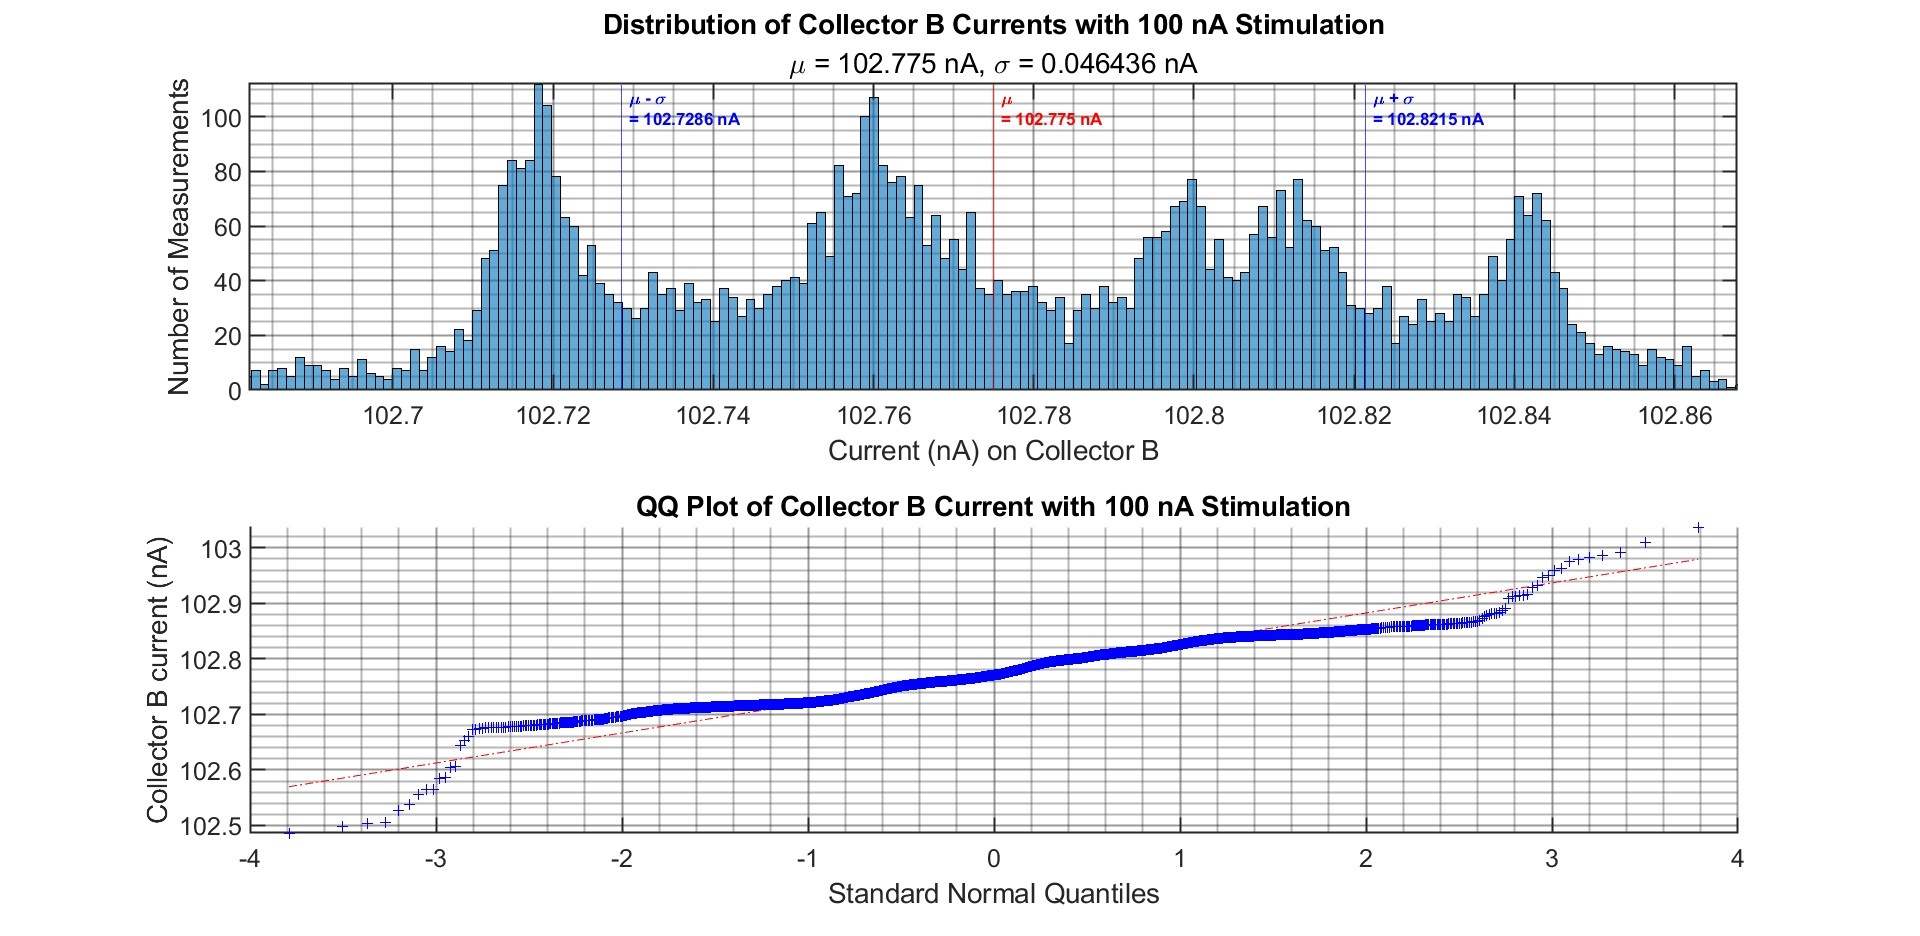
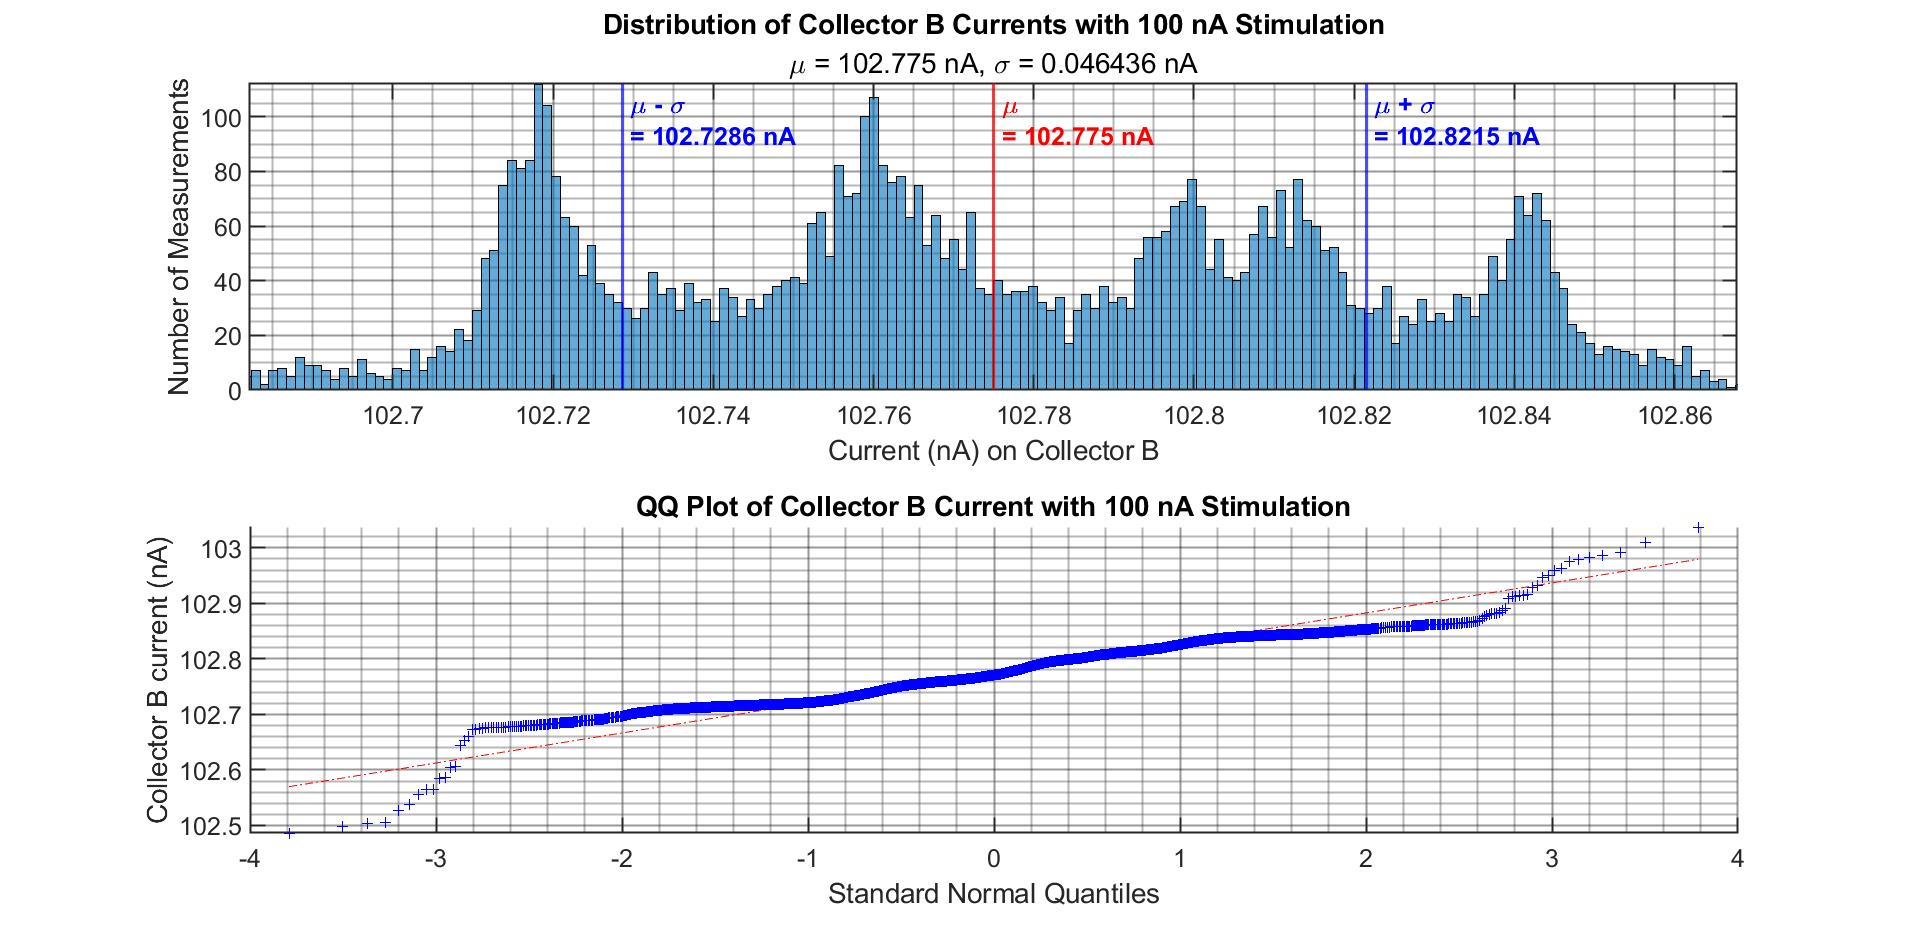
made std dev and mean lines bigger and thicker for readability

Changed region(s): [[0.6875, 0.0929, 0.8125, 0.1549], [0.3125, 0.0929, 0.4375, 0.1549], [0.5, 0.0929, 0.625, 0.1549]]

diff --git a/grids_noise_C1A_upsweep_100nA.m b/grids_noise_C1A_upsweep_100nA.m
@@ -29,17 +29,20 @@ figure(1);
 subplot(2,1,1);
 histogram(currentC1_nA, numbins);
 hold on;
-meanLine = xline(meanC1Current, "-r", {"\mu", "= " + num2str(meanC1Current) + " nA"});
+meanLine = xline(meanC1Current, "-r", {"\mu", "= " + num2str(meanC1Current) + " nA"}, FontSize=15);
 meanLine.LabelOrientation = "horizontal";
 meanLine.FontWeight = 'bold';
+meanLine.LineWidth = 2;
 hold on;
-plusOneStdDev = xline(meanC1Current + stdC1Current, "-b", {"\mu + \sigma", "= " + num2str(meanC1Current + stdC1Current) + " nA"});
+plusOneStdDev = xline(meanC1Current + stdC1Current, "-b", {"\mu + \sigma", "= " + num2str(meanC1Current + stdC1Current) + " nA"}, FontSize=15);
 plusOneStdDev.LabelOrientation = "horizontal";
 plusOneStdDev.FontWeight = 'bold';
+plusOneStdDev.LineWidth = 2;
 hold on;
-minusOneStdDev = xline(meanC1Current - stdC1Current, "-b", {"\mu - \sigma", "= " + num2str(meanC1Current - stdC1Current) + " nA"});
+minusOneStdDev = xline(meanC1Current - stdC1Current, "-b", {"\mu - \sigma", "= " + num2str(meanC1Current - stdC1Current) + " nA"}, FontSize=15);
 minusOneStdDev.LabelOrientation = "horizontal";
 minusOneStdDev.FontWeight = 'bold';
+minusOneStdDev.LineWidth = 2;
 ax = gca;
 ax.FontSize = 15;
 grid on;

diff --git a/grids_noise_C1A_upsweep_20nA.m b/grids_noise_C1A_upsweep_20nA.m
@@ -29,17 +29,20 @@ figure(1);
 subplot(2,1,1);
 histogram(currentC1_nA, numbins);
 hold on;
-meanLine = xline(meanC1Current, "-r", {"\mu", "= " + num2str(meanC1Current) + " nA"});
+meanLine = xline(meanC1Current, "-r", {"\mu", "= " + num2str(meanC1Current) + " nA"}, FontSize=15);
 meanLine.LabelOrientation = "horizontal";
 meanLine.FontWeight = 'bold';
+meanLine.LineWidth = 2;
 hold on;
-plusOneStdDev = xline(meanC1Current + stdC1Current, "-b", {"\mu + \sigma", "= " + num2str(meanC1Current + stdC1Current) + " nA"});
+plusOneStdDev = xline(meanC1Current + stdC1Current, "-b", {"\mu + \sigma", "= " + num2str(meanC1Current + stdC1Current) + " nA"}, FontSize=15);
 plusOneStdDev.LabelOrientation = "horizontal";
 plusOneStdDev.FontWeight = 'bold';
+plusOneStdDev.LineWidth = 2;
 hold on;
-minusOneStdDev = xline(meanC1Current - stdC1Current, "-b", {"\mu - \sigma", "= " + num2str(meanC1Current - stdC1Current) + " nA"});
+minusOneStdDev = xline(meanC1Current - stdC1Current, "-b", {"\mu - \sigma", "= " + num2str(meanC1Current - stdC1Current) + " nA"}, FontSize=15);
 minusOneStdDev.LabelOrientation = "horizontal";
 minusOneStdDev.FontWeight = 'bold';
+minusOneStdDev.LineWidth = 2;
 ax = gca;
 ax.FontSize = 15;
 grid on;

diff --git a/grids_noise_C2B_upsweep_100nA.m b/grids_noise_C2B_upsweep_100nA.m
@@ -29,17 +29,20 @@ figure(1);
 subplot(2,1,1);
 histogram(currentC2_nA, numbins);
 hold on;
-meanLine = xline(meanC2Current, "-r", {"\mu", "= " + num2str(meanC2Current) + " nA"});
+meanLine = xline(meanC2Current, "-r", {"\mu", "= " + num2str(meanC2Current) + " nA"}, FontSize=15);
 meanLine.LabelOrientation = "horizontal";
 meanLine.FontWeight = 'bold';
+meanLine.LineWidth = 2;
 hold on;
-plusOneStdDev = xline(meanC2Current + stdC2Current, "-b", {"\mu + \sigma", "= " + num2str(meanC2Current + stdC2Current) + " nA"});
+plusOneStdDev = xline(meanC2Current + stdC2Current, "-b", {"\mu + \sigma", "= " + num2str(meanC2Current + stdC2Current) + " nA"}, FontSize=15);
 plusOneStdDev.LabelOrientation = "horizontal";
 plusOneStdDev.FontWeight = 'bold';
+plusOneStdDev.LineWidth = 2;
 hold on;
-minusOneStdDev = xline(meanC2Current - stdC2Current, "-b", {"\mu - \sigma", "= " + num2str(meanC2Current - stdC2Current) + " nA"});
+minusOneStdDev = xline(meanC2Current - stdC2Current, "-b", {"\mu - \sigma", "= " + num2str(meanC2Current - stdC2Current) + " nA"}, FontSize=15);
 minusOneStdDev.LabelOrientation = "horizontal";
 minusOneStdDev.FontWeight = 'bold';
+minusOneStdDev.LineWidth = 2;
 ax = gca;
 ax.FontSize = 15;
 grid on;

diff --git a/grids_noise_C2B_upsweep_20nA.m b/grids_noise_C2B_upsweep_20nA.m
@@ -29,17 +29,20 @@ figure(1);
 subplot(2,1,1);
 histogram(currentC2_nA, numbins);
 hold on;
-meanLine = xline(meanC2Current, "-r", {"\mu", "= " + num2str(meanC2Current) + " nA"});
+meanLine = xline(meanC2Current, "-r", {"\mu", "= " + num2str(meanC2Current) + " nA"}, FontSize=15);
 meanLine.LabelOrientation = "horizontal";
 meanLine.FontWeight = 'bold';
+meanLine.LineWidth = 2;
 hold on;
-plusOneStdDev = xline(meanC2Current + stdC2Current, "-b", {"\mu + \sigma", "= " + num2str(meanC2Current + stdC2Current) + " nA"});
+plusOneStdDev = xline(meanC2Current + stdC2Current, "-b", {"\mu + \sigma", "= " + num2str(meanC2Current + stdC2Current) + " nA"}, FontSize=15);
 plusOneStdDev.LabelOrientation = "horizontal";
 plusOneStdDev.FontWeight = 'bold';
+plusOneStdDev.LineWidth = 2;
 hold on;
-minusOneStdDev = xline(meanC2Current - stdC2Current, "-b", {"\mu - \sigma", "= " + num2str(meanC2Current - stdC2Current) + " nA"});
+minusOneStdDev = xline(meanC2Current - stdC2Current, "-b", {"\mu - \sigma", "= " + num2str(meanC2Current - stdC2Current) + " nA"}, FontSize=15);
 minusOneStdDev.LabelOrientation = "horizontal";
 minusOneStdDev.FontWeight = 'bold';
+minusOneStdDev.LineWidth = 2;
 ax = gca;
 ax.FontSize = 15;
 grid on;

diff --git a/grids_noise_C3C_upsweep_100nA.m b/grids_noise_C3C_upsweep_100nA.m
@@ -29,17 +29,20 @@ figure(1);
 subplot(2,1,1);
 histogram(currentC3_nA, numbins);
 hold on;
-meanLine = xline(meanC3Current, "-r", {"\mu", "= " + num2str(meanC3Current) + " nA"});
+meanLine = xline(meanC3Current, "-r", {"\mu", "= " + num2str(meanC3Current) + " nA"}, FontSize=15);
 meanLine.LabelOrientation = "horizontal";
 meanLine.FontWeight = 'bold';
+meanLine.LineWidth = 2;
 hold on;
-plusOneStdDev = xline(meanC3Current + stdC3Current, "-b", {"\mu + \sigma", "= " + num2str(meanC3Current + stdC3Current) + " nA"});
+plusOneStdDev = xline(meanC3Current + stdC3Current, "-b", {"\mu + \sigma", "= " + num2str(meanC3Current + stdC3Current) + " nA"}, FontSize=15);
 plusOneStdDev.LabelOrientation = "horizontal";
 plusOneStdDev.FontWeight = 'bold';
+plusOneStdDev.LineWidth = 2;
 hold on;
-minusOneStdDev = xline(meanC3Current - stdC3Current, "-b", {"\mu - \sigma", "= " + num2str(meanC3Current - stdC3Current) + " nA"});
+minusOneStdDev = xline(meanC3Current - stdC3Current, "-b", {"\mu - \sigma", "= " + num2str(meanC3Current - stdC3Current) + " nA"}, FontSize=15);
 minusOneStdDev.LabelOrientation = "horizontal";
 minusOneStdDev.FontWeight = 'bold';
+minusOneStdDev.LineWidth = 2;
 ax = gca;
 ax.FontSize = 15;
 grid on;

diff --git a/grids_noise_C3C_upsweep_10nA.m b/grids_noise_C3C_upsweep_10nA.m
@@ -29,17 +29,20 @@ figure(1);
 subplot(2,1,1);
 histogram(currentC3_nA, numbins);
 hold on;
-meanLine = xline(meanC3Current, "-r", {"\mu", "= " + num2str(meanC3Current) + " nA"});
+meanLine = xline(meanC3Current, "-r", {"\mu", "= " + num2str(meanC3Current) + " nA"}, FontSize=15);
 meanLine.LabelOrientation = "horizontal";
 meanLine.FontWeight = 'bold';
+meanLine.LineWidth = 2;
 hold on;
-plusOneStdDev = xline(meanC3Current + stdC3Current, "-b", {"\mu + \sigma", "= " + num2str(meanC3Current + stdC3Current) + " nA"});
+plusOneStdDev = xline(meanC3Current + stdC3Current, "-b", {"\mu + \sigma", "= " + num2str(meanC3Current + stdC3Current) + " nA"}, FontSize=15);
 plusOneStdDev.LabelOrientation = "horizontal";
 plusOneStdDev.FontWeight = 'bold';
+plusOneStdDev.LineWidth = 2;
 hold on;
-minusOneStdDev = xline(meanC3Current - stdC3Current, "-b", {"\mu - \sigma", "= " + num2str(meanC3Current - stdC3Current) + " nA"});
+minusOneStdDev = xline(meanC3Current - stdC3Current, "-b", {"\mu - \sigma", "= " + num2str(meanC3Current - stdC3Current) + " nA"}, FontSize=15);
 minusOneStdDev.LabelOrientation = "horizontal";
 minusOneStdDev.FontWeight = 'bold';
+minusOneStdDev.LineWidth = 2;
 ax = gca;
 ax.FontSize = 15;
 grid on;

diff --git a/grids_noise_C3C_upsweep_1nA.m b/grids_noise_C3C_upsweep_1nA.m
@@ -29,17 +29,20 @@ figure(1);
 subplot(2,1,1);
 histogram(currentC3_nA, numbins);
 hold on;
-meanLine = xline(meanC3Current, "-r", {"\mu", "= " + num2str(meanC3Current) + " nA"});
+meanLine = xline(meanC3Current, "-r", {"\mu", "= " + num2str(meanC3Current) + " nA"}, FontSize=15);
 meanLine.LabelOrientation = "horizontal";
 meanLine.FontWeight = 'bold';
+meanLine.LineWidth = 2;
 hold on;
-plusOneStdDev = xline(meanC3Current + stdC3Current, "-b", {"\mu + \sigma", "= " + num2str(meanC3Current + stdC3Current) + " nA"});
+plusOneStdDev = xline(meanC3Current + stdC3Current, "-b", {"\mu + \sigma", "= " + num2str(meanC3Current + stdC3Current) + " nA"}, FontSize=15);
 plusOneStdDev.LabelOrientation = "horizontal";
 plusOneStdDev.FontWeight = 'bold';
+plusOneStdDev.LineWidth = 2;
 hold on;
-minusOneStdDev = xline(meanC3Current - stdC3Current, "-b", {"\mu - \sigma", "= " + num2str(meanC3Current - stdC3Current) + " nA"});
+minusOneStdDev = xline(meanC3Current - stdC3Current, "-b", {"\mu - \sigma", "= " + num2str(meanC3Current - stdC3Current) + " nA"}, FontSize=15);
 minusOneStdDev.LabelOrientation = "horizontal";
 minusOneStdDev.FontWeight = 'bold';
+minusOneStdDev.LineWidth = 2;
 ax = gca;
 ax.FontSize = 15;
 grid on;

diff --git a/grids_noise_C3C_upsweep_20nA.m b/grids_noise_C3C_upsweep_20nA.m
@@ -29,17 +29,20 @@ figure(1);
 subplot(2,1,1);
 histogram(currentC3_nA, numbins);
 hold on;
-meanLine = xline(meanC3Current, "-r", {"\mu", "= " + num2str(meanC3Current) + " nA"});
+meanLine = xline(meanC3Current, "-r", {"\mu", "= " + num2str(meanC3Current) + " nA"}, FontSize=15);
 meanLine.LabelOrientation = "horizontal";
 meanLine.FontWeight = 'bold';
+meanLine.LineWidth = 2;
 hold on;
-plusOneStdDev = xline(meanC3Current + stdC3Current, "-b", {"\mu + \sigma", "= " + num2str(meanC3Current + stdC3Current) + " nA"});
+plusOneStdDev = xline(meanC3Current + stdC3Current, "-b", {"\mu + \sigma", "= " + num2str(meanC3Current + stdC3Current) + " nA"}, FontSize=15);
 plusOneStdDev.LabelOrientation = "horizontal";
 plusOneStdDev.FontWeight = 'bold';
+plusOneStdDev.LineWidth = 2;
 hold on;
-minusOneStdDev = xline(meanC3Current - stdC3Current, "-b", {"\mu - \sigma", "= " + num2str(meanC3Current - stdC3Current) + " nA"});
+minusOneStdDev = xline(meanC3Current - stdC3Current, "-b", {"\mu - \sigma", "= " + num2str(meanC3Current - stdC3Current) + " nA"}, FontSize=15);
 minusOneStdDev.LabelOrientation = "horizontal";
 minusOneStdDev.FontWeight = 'bold';
+minusOneStdDev.LineWidth = 2;
 ax = gca;
 ax.FontSize = 15;
 grid on;

diff --git a/grids_noise_C4D_upsweep_100nA.m b/grids_noise_C4D_upsweep_100nA.m
@@ -29,17 +29,20 @@ figure(1);
 subplot(2,1,1);
 histogram(currentC4_nA, numbins);
 hold on;
-meanLine = xline(meanC4Current, "-r", {"\mu", "= " + num2str(meanC4Current) + " nA"});
+meanLine = xline(meanC4Current, "-r", {"\mu", "= " + num2str(meanC4Current) + " nA"}, FontSize=15);
 meanLine.LabelOrientation = "horizontal";
 meanLine.FontWeight = 'bold';
+meanLine.LineWidth = 2;
 hold on;
-plusOneStdDev = xline(meanC4Current + stdC4Current, "-b", {"\mu + \sigma", "= " + num2str(meanC4Current + stdC4Current) + " nA"});
+plusOneStdDev = xline(meanC4Current + stdC4Current, "-b", {"\mu + \sigma", "= " + num2str(meanC4Current + stdC4Current) + " nA"}, FontSize=15);
 plusOneStdDev.LabelOrientation = "horizontal";
 plusOneStdDev.FontWeight = 'bold';
+plusOneStdDev.LineWidth = 2;
 hold on;
-minusOneStdDev = xline(meanC4Current - stdC4Current, "-b", {"\mu - \sigma", "= " + num2str(meanC4Current - stdC4Current) + " nA"});
+minusOneStdDev = xline(meanC4Current - stdC4Current, "-b", {"\mu - \sigma", "= " + num2str(meanC4Current - stdC4Current) + " nA"}, FontSize=15);
 minusOneStdDev.LabelOrientation = "horizontal";
 minusOneStdDev.FontWeight = 'bold';
+minusOneStdDev.LineWidth = 2;
 ax = gca;
 ax.FontSize = 15;
 grid on;

diff --git a/grids_noise_C4D_upsweep_10nA.m b/grids_noise_C4D_upsweep_10nA.m
@@ -29,17 +29,20 @@ figure(1);
 subplot(2,1,1);
 histogram(currentC4_nA, numbins);
 hold on;
-meanLine = xline(meanC4Current, "-r", {"\mu", "= " + num2str(meanC4Current) + " nA"});
+meanLine = xline(meanC4Current, "-r", {"\mu", "= " + num2str(meanC4Current) + " nA"}, FontSize=15);
 meanLine.LabelOrientation = "horizontal";
 meanLine.FontWeight = 'bold';
+meanLine.LineWidth = 2;
 hold on;
-plusOneStdDev = xline(meanC4Current + stdC4Current, "-b", {"\mu + \sigma", "= " + num2str(meanC4Current + stdC4Current) + " nA"});
+plusOneStdDev = xline(meanC4Current + stdC4Current, "-b", {"\mu + \sigma", "= " + num2str(meanC4Current + stdC4Current) + " nA"}, FontSize=15);
 plusOneStdDev.LabelOrientation = "horizontal";
 plusOneStdDev.FontWeight = 'bold';
+plusOneStdDev.LineWidth = 2;
 hold on;
-minusOneStdDev = xline(meanC4Current - stdC4Current, "-b", {"\mu - \sigma", "= " + num2str(meanC4Current - stdC4Current) + " nA"});
+minusOneStdDev = xline(meanC4Current - stdC4Current, "-b", {"\mu - \sigma", "= " + num2str(meanC4Current - stdC4Current) + " nA"}, FontSize=15);
 minusOneStdDev.LabelOrientation = "horizontal";
 minusOneStdDev.FontWeight = 'bold';
+minusOneStdDev.LineWidth = 2;
 ax = gca;
 ax.FontSize = 15;
 grid on;

diff --git a/grids_noise_C4D_upsweep_1nA.m b/grids_noise_C4D_upsweep_1nA.m
@@ -29,17 +29,20 @@ figure(1);
 subplot(2,1,1);
 histogram(currentC4_nA, numbins);
 hold on;
-meanLine = xline(meanC4Current, "-r", {"\mu", "= " + num2str(meanC4Current) + " nA"});
+meanLine = xline(meanC4Current, "-r", {"\mu", "= " + num2str(meanC4Current) + " nA"}, FontSize=15);
 meanLine.LabelOrientation = "horizontal";
 meanLine.FontWeight = 'bold';
+meanLine.LineWidth = 2;
 hold on;
-plusOneStdDev = xline(meanC4Current + stdC4Current, "-b", {"\mu + \sigma", "= " + num2str(meanC4Current + stdC4Current) + " nA"});
+plusOneStdDev = xline(meanC4Current + stdC4Current, "-b", {"\mu + \sigma", "= " + num2str(meanC4Current + stdC4Current) + " nA"}, FontSize=15);
 plusOneStdDev.LabelOrientation = "horizontal";
 plusOneStdDev.FontWeight = 'bold';
+plusOneStdDev.LineWidth = 2;
 hold on;
-minusOneStdDev = xline(meanC4Current - stdC4Current, "-b", {"\mu - \sigma", "= " + num2str(meanC4Current - stdC4Current) + " nA"});
+minusOneStdDev = xline(meanC4Current - stdC4Current, "-b", {"\mu - \sigma", "= " + num2str(meanC4Current - stdC4Current) + " nA"}, FontSize=15);
 minusOneStdDev.LabelOrientation = "horizontal";
 minusOneStdDev.FontWeight = 'bold';
+minusOneStdDev.LineWidth = 2;
 ax = gca;
 ax.FontSize = 15;
 grid on;

diff --git a/grids_noise_C4D_upsweep_20nA.m b/grids_noise_C4D_upsweep_20nA.m
@@ -29,17 +29,20 @@ figure(1);
 subplot(2,1,1);
 histogram(currentC4_nA, numbins);
 hold on;
-meanLine = xline(meanC4Current, "-r", {"\mu", "= " + num2str(meanC4Current) + " nA"});
+meanLine = xline(meanC4Current, "-r", {"\mu", "= " + num2str(meanC4Current) + " nA"}, FontSize=15);
 meanLine.LabelOrientation = "horizontal";
 meanLine.FontWeight = 'bold';
+meanLine.LineWidth = 2;
 hold on;
-plusOneStdDev = xline(meanC4Current + stdC4Current, "-b", {"\mu + \sigma", "= " + num2str(meanC4Current + stdC4Current) + " nA"});
+plusOneStdDev = xline(meanC4Current + stdC4Current, "-b", {"\mu + \sigma", "= " + num2str(meanC4Current + stdC4Current) + " nA"}, FontSize=15);
 plusOneStdDev.LabelOrientation = "horizontal";
 plusOneStdDev.FontWeight = 'bold';
+plusOneStdDev.LineWidth = 2;
 hold on;
-minusOneStdDev = xline(meanC4Current - stdC4Current, "-b", {"\mu - \sigma", "= " + num2str(meanC4Current - stdC4Current) + " nA"});
+minusOneStdDev = xline(meanC4Current - stdC4Current, "-b", {"\mu - \sigma", "= " + num2str(meanC4Current - stdC4Current) + " nA"}, FontSize=15);
 minusOneStdDev.LabelOrientation = "horizontal";
 minusOneStdDev.FontWeight = 'bold';
+minusOneStdDev.LineWidth = 2;
 ax = gca;
 ax.FontSize = 15;
 grid on;
